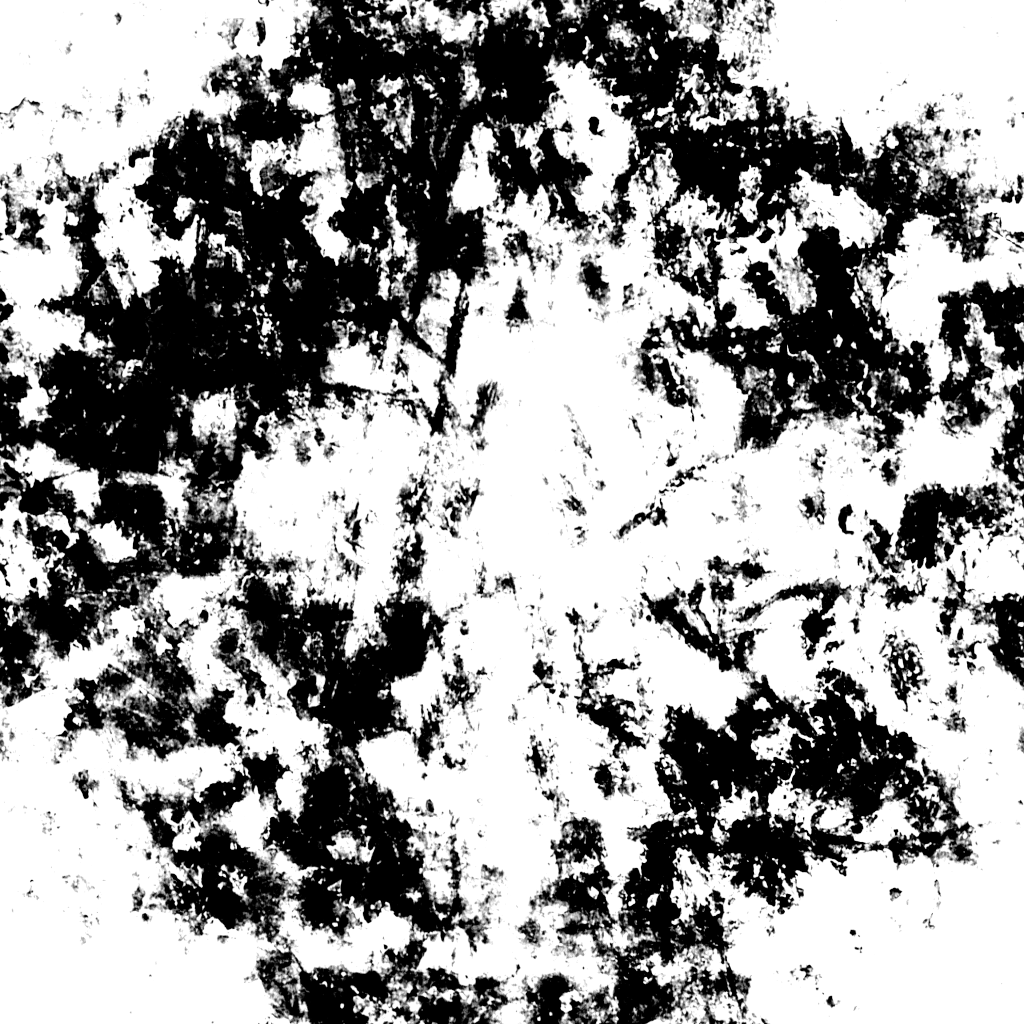
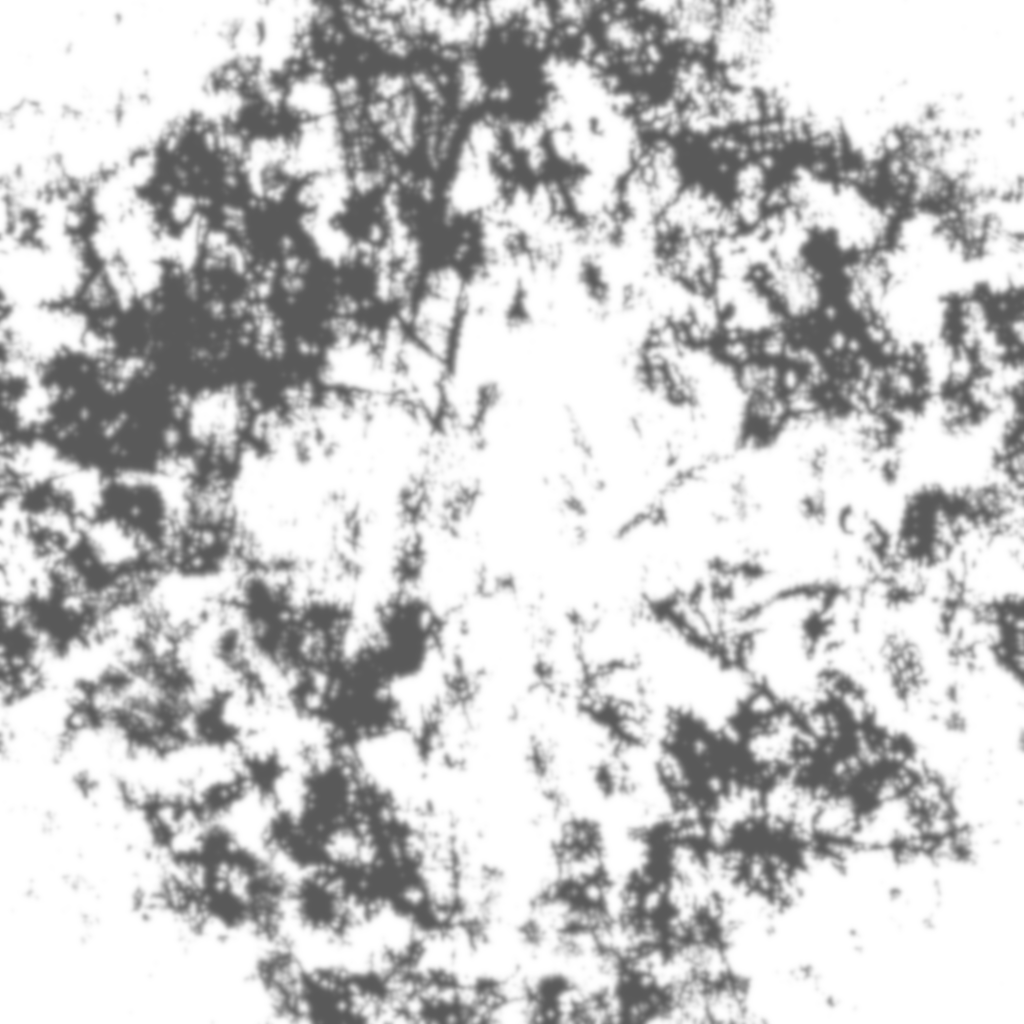
Added more textures and AO

diff --git a/gameContent.js b/gameContent.js
@@ -20,7 +20,7 @@ function initializeGameContent() {
 	camera = initializeCamera(createVectorUtility(0.6, 0.1, 0.6), createEulerUtility(-10, 45, 0, "YXZ"));
 	initializeControls();
 	initializeEnvironment();
-	initializeSphere('tiles_resources');
+	initializeSphere('ice_resources');
 	initializeProperties();
 	renderer.setAnimationLoop( update );
 	window.addEventListener( 'resize', onWindowResize );
@@ -45,10 +45,12 @@ function reloadMaterialTextures(folderName, tiling) {
 		var normalmap = loadTextureUtility(folderName, 'normal.png', tiling);
 		var roughness = loadTextureUtility(folderName, 'roughness.png', tiling);
 		var heightmap = loadTextureUtility(folderName, 'height.png', tiling);
+		var AO = loadTextureUtility(folderName, 'AO.png', tiling);
 		sphereMaterial.uniforms['u_basemap'].value = basemap;
 		sphereMaterial.uniforms['u_normalmap'].value = normalmap;
 		sphereMaterial.uniforms['u_roughness'].value = roughness;
 		sphereMaterial.uniforms['u_heightmap'].value = heightmap;
+		sphereMaterial.uniforms['u_AO'].value = AO;
 	}
 }
 
@@ -63,22 +65,27 @@ function initializeProperties() {
 			sphereMaterial.uniforms['u_heightScale'].value = materialUniforms.u_heightScale.value;
 		}
 	);
+	propertyGUI.add(materialUniforms.u_AOScale, 'value', 0.0, 1.0).listen().name("AO Intensity").onChange(
+		function() {
+			sphereMaterial.uniforms['u_AOScale'].value = materialUniforms.u_AOScale.value;
+		}
+	);
 	propertyGUI.add(materialUniforms.u_tiling.value, 'x', 1, 10).listen().name("Tiling X").onChange(
 		function() {
-			sphereMaterial.uniforms['u_tiling'].value.x = materialUniforms.u_tiling.value.x;
+			sphereMaterial.uniforms['u_tiling'].value.x = Math.round(materialUniforms.u_tiling.value.x);
 		}
 	);
 	propertyGUI.add(materialUniforms.u_tiling.value, 'y', 1, 10).listen().name("Tiling Y").onChange(
 		function() {
-			sphereMaterial.uniforms['u_tiling'].value.y = materialUniforms.u_tiling.value.y;
+			sphereMaterial.uniforms['u_tiling'].value.y = Math.round(materialUniforms.u_tiling.value.y);
 		}
 	);
-	propertyGUI.add(materialUniforms.u_roughnessRemap.value, 'x', 0.0, 1.0).listen().name("Remap Min").onChange(
+	propertyGUI.add(materialUniforms.u_roughnessRemap.value, 'x', 0.0, 1.0).listen().name("Rough Remap Min").onChange(
 		function() {
 			sphereMaterial.uniforms['u_roughnessRemap'].value.x = materialUniforms.u_roughnessRemap.value.x;
 		}
 	);
-	propertyGUI.add(materialUniforms.u_roughnessRemap.value, 'y', 0.0, 1.0).listen().name("Remap Max").onChange(
+	propertyGUI.add(materialUniforms.u_roughnessRemap.value, 'y', 0.0, 1.0).listen().name("Rough Remap Max").onChange(
 		function() {
 			sphereMaterial.uniforms['u_roughnessRemap'].value.y = materialUniforms.u_roughnessRemap.value.y;
 		}
@@ -87,12 +94,19 @@ function initializeProperties() {
 	var loadIce = { add : function() {
 		reloadMaterialTextures("ice_resources", new THREE.Vector2(1, 1));
 	}};
+	propertyGUI.add(loadIce,'add').name("Load Ice");
 	var loadTiles = { add : function() {
 		reloadMaterialTextures("tiles_resources", new THREE.Vector2(2, 1));
 	}};
-
-	propertyGUI.add(loadIce,'add').name("Load Ice");
 	propertyGUI.add(loadTiles,'add').name("Load Tiles");
+	var loadTiles = { add : function() {
+		reloadMaterialTextures("rock_resources", new THREE.Vector2(2, 2));
+	}};
+	propertyGUI.add(loadTiles,'add').name("Load Rock");
+	var loadTiles = { add : function() {
+		reloadMaterialTextures("brick_resources", new THREE.Vector2(2, 2));
+	}};
+	propertyGUI.add(loadTiles,'add').name("Load Bricks");
 }
 
 function initializeEnvironment() {

diff --git a/utilities.js b/utilities.js
@@ -53,19 +53,22 @@ function createCustomMaterialUtility(folderName, normalScale, heightScale, tilin
 	var normalmap = loadTextureUtility(folderName, 'normal.png', tiling);
 	var roughness = loadTextureUtility(folderName, 'roughness.png', tiling);
 	var heightmap = loadTextureUtility(folderName, 'height.png', tiling);
+	var AO = loadTextureUtility(folderName, 'AO.png', tiling);
 
     uniforms = {
         u_basemap: { type: "t", value: basemap },
 		u_normalmap: {type: "t", value: normalmap },
 		u_heightmap: {type: "t", value: roughness },
 		u_roughness: {type: "t", value: heightmap },
+		u_AO: {type: "t", value: AO},
 		u_envMap: {type: "t", value: scene.background},
 
 		u_normalScale: {type: "f", value: normalScale},
 		u_heightScale: {type: "f", value: heightScale},
+		u_AOScale: {type: "f", value: 1.0},
 		u_tiling: {type: "v2", value: tiling},
 		
-		u_roughnessRemap: {type: "v2", value: new THREE.Vector2(0.0, 1.0)}
+		u_roughnessRemap: {type: "v2", value: new THREE.Vector2(0.0, 1.0)},
     };
 	
 	materialUniforms = THREE.UniformsUtils.merge([
